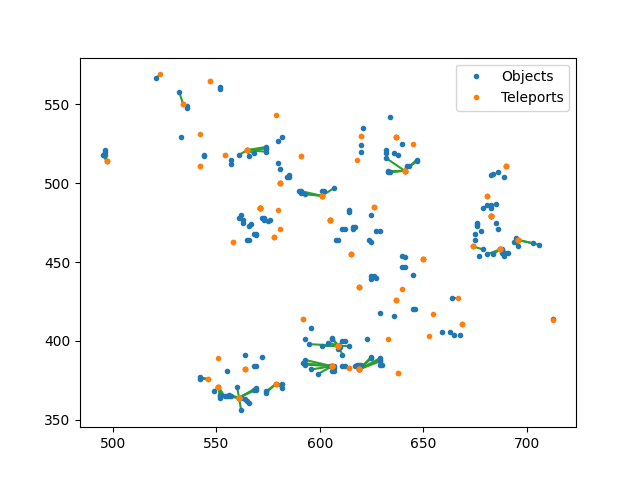
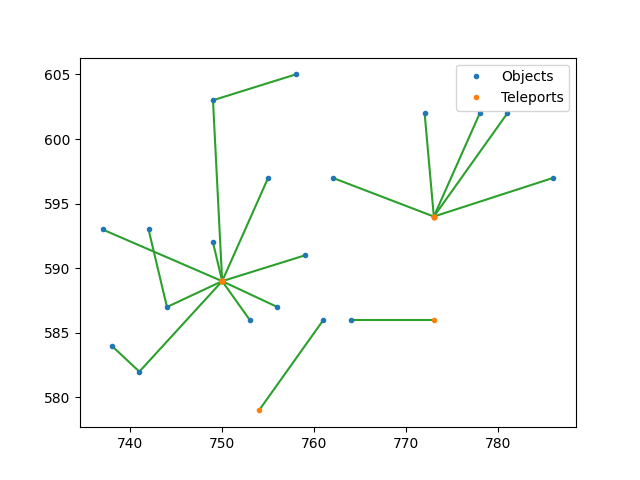
more nn teleport

diff --git a/strategyNearestNeighborTeleports.py b/strategyNearestNeighborTeleports.py
@@ -14,6 +14,7 @@ def nearestNeighborTeleports(listObjects, listTeleports, numberOfObjects=None):
 
     collectedObjects = [False]*len(listObjects)
     count = 0
+    totalDistanceWalked = 0
     pathes = []
 
     endpointInfo = [None]*len(listObjects) 
@@ -53,9 +54,11 @@ def nearestNeighborTeleports(listObjects, listTeleports, numberOfObjects=None):
 
             distance = distanceTuples(listObjects[objectIndex], listTeleports[teleportIndex])
 
-            edge = Edge(objectIndex, teleportIndex, distance, "teleport-to-object")
+            edge = Edge(teleportIndex, objectIndex, distance, "teleport-to-object")
 
             listEdges.append(edge)
+
+            # print(f"\tAdded edge {edge.originIndex} -> {edge.destinationIndex}, of type {edge.type} and distance {edge.distance} to pathes")
     
 
     # make the list a heap
@@ -73,8 +76,14 @@ def nearestNeighborTeleports(listObjects, listTeleports, numberOfObjects=None):
             not collectedObjects[edge.destinationIndex] and
             (edge.type == "teleport-to-object" or endpointInfo[edge.originIndex] is not None)
         ):
+            # print(f"\tRemoved edge {edge.originIndex} -> {edge.destinationIndex}, of type {edge.type} and distance {edge.distance} from pathes")
             edge:Edge = heapq.heappop(listEdges)
 
+        # debug
+        # print(f"\tDecided to add edge {edge.originIndex} -> {edge.destinationIndex}, of type {edge.type} and distance {edge.distance} to pathes")
+
+        # add the distance
+        totalDistanceWalked += edge.distance
 
         # if it is a teleport-to-object edge, create a new path and mark that object as endpoint
         if edge.type == "teleport-to-object":
@@ -96,22 +105,28 @@ def nearestNeighborTeleports(listObjects, listTeleports, numberOfObjects=None):
             if not collectedObjects[objectIndex] and objectIndex != edge.destinationIndex:
                 distance = distanceTuples(listObjects[objectIndex], listObjects[edge.destinationIndex])
 
-                edge = Edge(objectIndex, edge.destinationIndex, distance, "object-to-object")
+                edge = Edge(edge.destinationIndex, objectIndex, distance, "object-to-object")
 
                 listEdges.append(edge)
 
+                # print(f"\tAdded edge {edge.originIndex} -> {edge.destinationIndex}, of type {edge.type} and distance {edge.distance} to pathes")
+
         # remove invalid elements from the list
+        sizeBefore = len(listEdges)
         listEdges:list[Edge] = [edge for edge in listEdges if (
             not collectedObjects[edge.destinationIndex] and
             (edge.type == "teleport-to-object" or endpointInfo[edge.originIndex] is not None)
         )]
+        sizeAfter = len(listEdges)
+        # print(f"\tRemoved {sizeBefore - sizeAfter} invalid edges from pathes")
 
         # make the list a heap again
         heapq.heapify(listEdges)
 
         count += 1
     
-    return pathes, collectedObjects
+    
+    return pathes, collectedObjects, totalDistanceWalked
 
 
 
@@ -121,8 +136,21 @@ def nearestNeighborTeleports(listObjects, listTeleports, numberOfObjects=None):
 
 if __name__ == "__main__":
 
+
+
+
+    # debug test case
+    # listObjects = [
+    #     (10, 10), (100, 100)
+    # ]
+    # listTeleports = [
+    #     (0, 3), (2, 0)
+    # ]
+
+    
     from instances import getOptimizedInstance
-    listObjects, listTeleports = getOptimizedInstance(["Violetgrass"])
+    # listObjects, listTeleports = getOptimizedInstance(["Violetgrass"])
+    listObjects, listTeleports = getOptimizedInstance(["Valberry"])
 
 
 
@@ -130,28 +158,29 @@ if __name__ == "__main__":
 
     import matplotlib.pyplot as plt
 
-    multiplier = 0.5
+    multiplier = 1
     from math import floor
     numberObjects = floor(len(listObjects) * multiplier)
-    pathes, collectedObjects = nearestNeighborTeleports(listObjects, listTeleports, numberObjects)
+    pathes, collectedObjects, totalDistance = nearestNeighborTeleports(listObjects, listTeleports, numberObjects)
 
 
 
-    # for path in pathes:
-    #     pathCoordinates = [listTeleports[path[0]]] + [listObjects[path[i]] for i in range(1, len(path))]
-    #     plt.plot([i[0] for i in pathCoordinates], [i[1] for i in pathCoordinates], "-", color="#2ca02c")
+    for path in pathes:
+        pathCoordinates = [listTeleports[path[0]]] + [listObjects[path[i]] for i in range(1, len(path))]
+        plt.plot([i[0] for i in pathCoordinates], [i[1] for i in pathCoordinates], "-", color="#2ca02c")
 
 
-    # plt.plot([i[0] for i in listObjects],   [i[1] for i in listObjects],   ".", label="Objects",   color="#1f77b4")
-    # plt.plot([i[0] for i in listTeleports], [i[1] for i in listTeleports], ".", label="Teleports", color="#ff7f0e")
+    plt.plot([i[0] for i in listObjects],   [i[1] for i in listObjects],   ".", label="Objects",   color="#1f77b4")
+    plt.plot([i[0] for i in listTeleports], [i[1] for i in listTeleports], ".", label="Teleports", color="#ff7f0e")
 
 
-    # plt.legend()
+    plt.legend()
     
-    # plt.savefig("./aux.png")
+    plt.savefig("./aux.png")
 
 
 
     pprint(pathes)
+    pprint(totalDistance)
     pprint(len(pathes))
     pprint(numberObjects)
